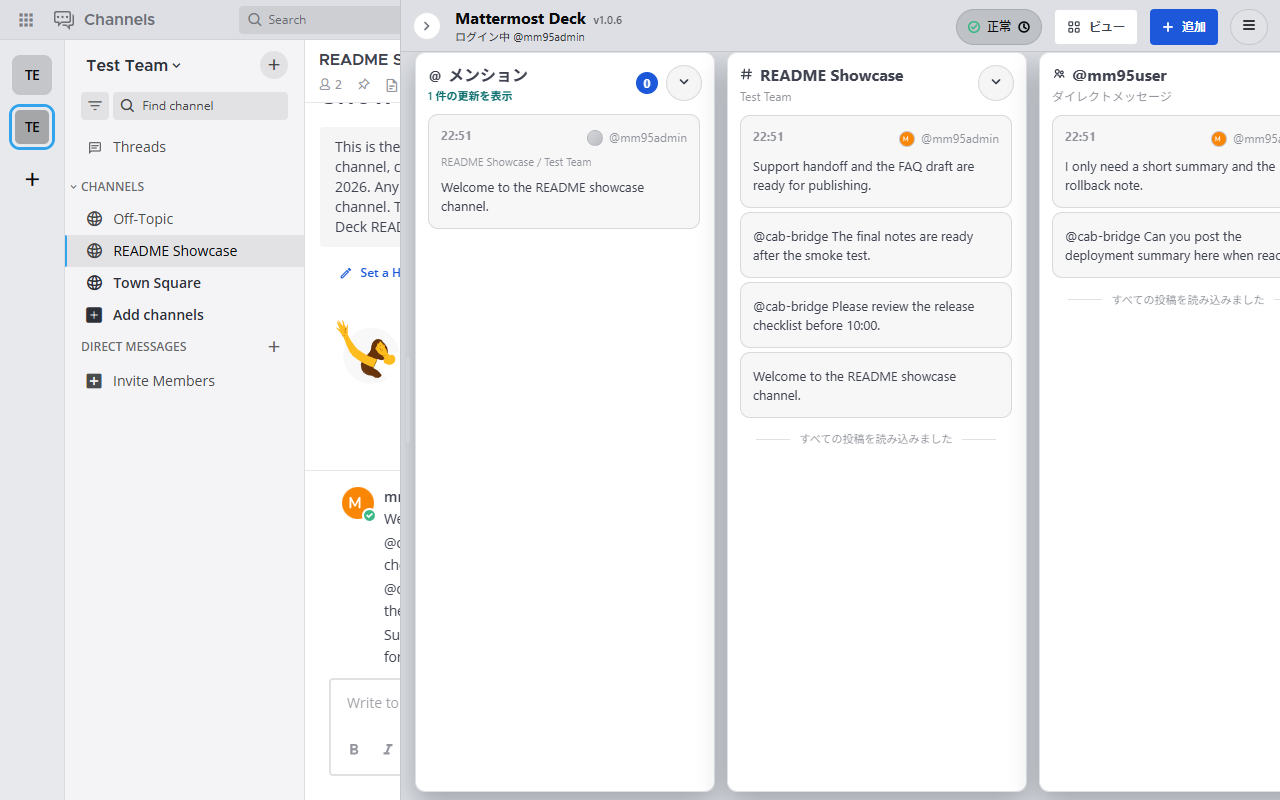
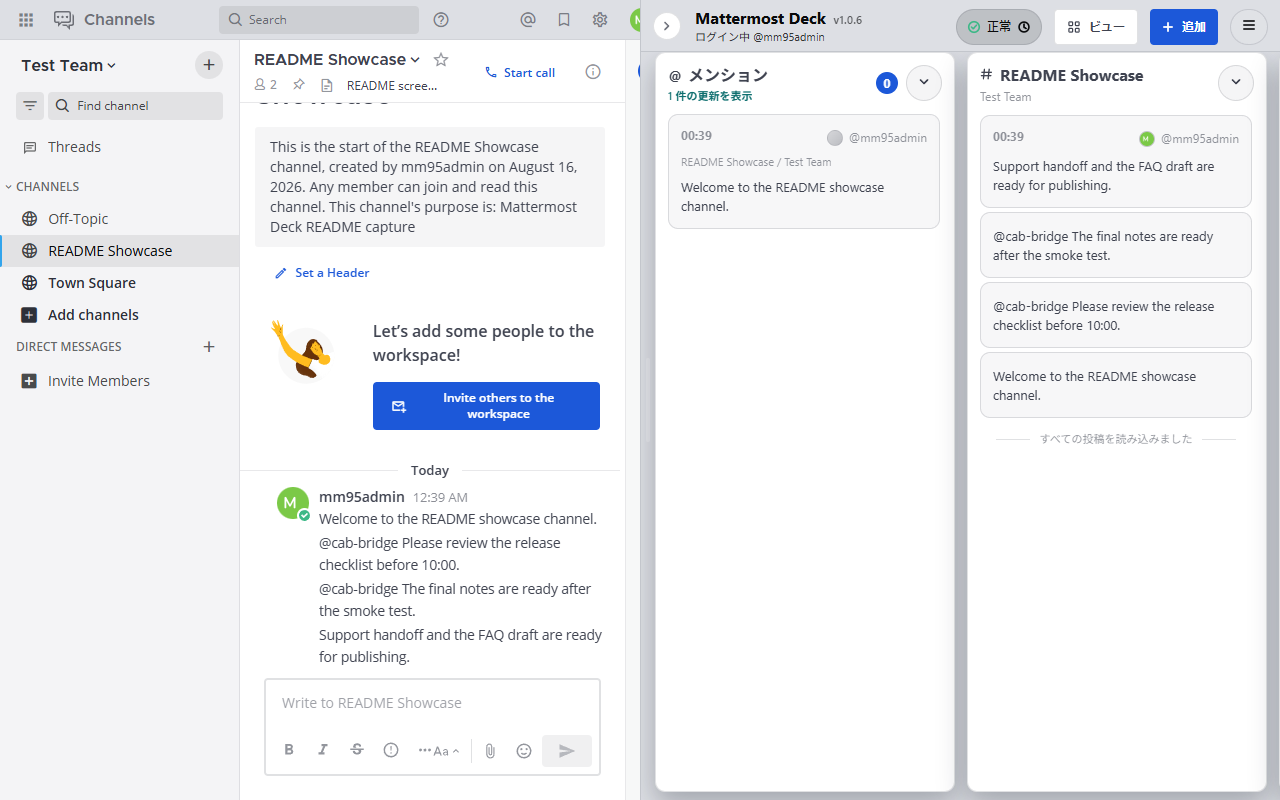
fix: 長い翻訳ラベルで Deck ヘッダーのアクションボタンが見切れる問題を修正
- .deck-topbar-actions で Views / Add 側だけが幅を譲るようにし、
  末尾のアクションボタンが常にレール内に収まるよう CSS を追加。
  従来は .deck-add-wrap が flex: none のため合計幅がヘッダーを超えると
  末尾が切れていた（620px のコンパクト閾値〜約700px の死角で発生）
- ロシア語 viewsLabel を「Представления」→「Виды」へ短縮
- ドイツ語 addLabel を「Hinzufügen」→「Neu」、
  diagnosticsStatusHealthy を「Fehlerfrei」→「OK」へ短縮
- releaseNote106HeaderOverflow を全9ロケールへ追加し、
  1.0.6 のリリースノートに Fixed 項目として掲載
- CHANGELOG 1.0.6 に Fixed 節を追加
- capture-readme のレール幅を定数化し、言語別スクショを 640px
  （ビューポートの約半分）で撮影してMattermost本体が隠れないように変更
- 9言語分のスクリーンショットを再取得
- Chrome ウェブストア申請文に ru/uk/es/ko の詳細説明を追記

diff --git a/e2e/options-profiles.spec.ts b/e2e/options-profiles.spec.ts
@@ -298,9 +298,10 @@ test("1.0.6 release notice stays aligned, wraps actions, and explains the added 
     await releaseBanner.getByRole("button", { name: "新機能" }).click();
     const releaseDialog = page.getByRole("dialog", { name: "v1.0.6" });
     await expect(releaseDialog).toBeVisible();
-    await expect(releaseDialog.locator(".options-modal-section")).toHaveCount(2);
+    await expect(releaseDialog.locator(".options-modal-section")).toHaveCount(3);
     await expect(releaseDialog).toContainText("ロシア語・ウクライナ語・スペイン語・韓国語を追加");
     await expect(releaseDialog).toContainText("CLDR の複数形");
+    await expect(releaseDialog).toContainText("アクションメニューが画面外へ押し出されて見切れる問題を修正");
   } finally {
     await context.close();
     await fs.rm(userDataDir, { recursive: true, force: true });

diff --git a/src/ui/styles.ts b/src/ui/styles.ts
@@ -176,6 +176,30 @@ export const railCssText = `
     flex: none;
   }
 
+  /*
+   * Header labels vary widely by language, so let the Views and Add buttons
+   * give up width before the trailing actions button is pushed out of the
+   * rail. The actions button stays a fixed size and must remain reachable.
+   */
+  .deck-topbar-actions .deck-add-wrap:not(.deck-actions-wrap) {
+    flex: 0 1 auto;
+    min-width: 0;
+  }
+
+  .deck-topbar-actions .deck-actions-wrap {
+    flex: none;
+  }
+
+  .deck-topbar-actions .deck-status-badge,
+  .deck-topbar-button {
+    min-width: 0;
+  }
+
+  .deck-topbar-button .deck-button-label {
+    overflow: hidden;
+    text-overflow: ellipsis;
+  }
+
   .deck-add-menu {
     position: absolute;
     top: calc(100% + 8px);

diff --git a/src/options/index.tsx b/src/options/index.tsx
@@ -2488,7 +2488,9 @@ function OptionsApp(): React.JSX.Element {
         changed: [
           t("options.releaseNote106PluralForms"),
         ],
-        fixed: [],
+        fixed: [
+          t("options.releaseNote106HeaderOverflow"),
+        ],
       } satisfies ReleaseNotes;
     }
     if (releaseNotice.version === "1.0.5") {

diff --git a/src/ui/locales.test.ts b/src/ui/locales.test.ts
@@ -137,6 +137,7 @@ describe("UI locale coverage", () => {
       "options.performanceTitle",
       "options.saveFailed",
       "options.releaseNotesOpen",
+      "options.releaseNote106HeaderOverflow",
       "options.releaseNote106Languages",
       "options.releaseNote106PluralForms",
       "options.releaseNote105PostActivation",

diff --git a/docs/chrome-web-store-submission.ja.md b/docs/chrome-web-store-submission.ja.md
@@ -13,6 +13,29 @@ Chrome Web Store の「プライバシーへの取り組み」タブで使用す
 
 Mattermost Deck は、Mattermost Web の右側に監視向けマルチペインを追加する Chrome 拡張です。メンション、チャンネル、ダイレクトメッセージ、キーワード強調付きの検索結果、保存済み投稿を並べて確認できます。ログイン、投稿、編集、チーム移動、スレッド表示などの主要操作は Mattermost 本体を使用します。
 
+## 言語別の詳細説明
+
+拡張機能名とタイトル下の簡易説明は、アップロードしたパッケージの
+`src/_locales/<locale>/messages.json` から取得されるため、コンソールへの入力は不要です。
+以下の詳細説明は言語ごとの手入力が必要で、そのロケールを含むパッケージをアップロードした後に
+Store listing タブへ貼り付けます。
+
+### ロシア語 (ru)
+
+Mattermost Deck добавляет панели для мониторинга справа от Mattermost Web. Упоминания, каналы, личные сообщения, результаты поиска с подсветкой ключевых слов и сохранённые сообщения можно расположить рядом друг с другом. Основным интерфейсом для входа, отправки и редактирования сообщений, перехода между командами и просмотра обсуждений остаётся сам Mattermost.
+
+### ウクライナ語 (uk)
+
+Mattermost Deck додає панелі для стеження праворуч від Mattermost Web. Згадування, канали, особисті повідомлення, результати пошуку з підсвічуванням ключових слів і збережені дописи можна розташувати поруч. Основним інтерфейсом для входу, надсилання та редагування дописів, переходу між командами й перегляду обговорень залишається сам Mattermost.
+
+### スペイン語 (es)
+
+Mattermost Deck añade paneles de seguimiento a la derecha de Mattermost Web. Puedes colocar en paralelo menciones, canales, mensajes directos, resultados de búsqueda con palabras clave resaltadas y publicaciones guardadas. Mattermost sigue siendo la interfaz principal para iniciar sesión, publicar, editar, cambiar de equipo y ver hilos.
+
+### 韓国語 (ko)
+
+Mattermost Deck은 Mattermost Web 오른쪽에 모니터링용 패널을 추가합니다. 멘션, 채널, 다이렉트 메시지, 키워드가 강조된 검색 결과, 저장한 게시물을 나란히 배치할 수 있습니다. 로그인, 게시, 편집, 팀 이동, 스레드 보기 등 주요 작업은 계속 Mattermost 본체에서 이루어집니다.
+
 ## v1.0.6 リリースノート
 
 - Deck、設定画面、ポップアップ、インストール案内、拡張機能パッケージの説明文にロシア語・ウクライナ語・スペイン語・韓国語を追加

diff --git a/docs/chrome-web-store-submission.md b/docs/chrome-web-store-submission.md
@@ -16,6 +16,29 @@ Mattermost Deck adds a multi-pane viewing and search workspace to Mattermost Web
 
 Mattermost Deck adds monitoring-oriented panes to the right side of Mattermost Web. Users can arrange mentions, channels, direct messages, search results with keyword highlighting, and saved posts side by side. Mattermost remains the primary interface for login, posting, editing, team navigation, and thread views.
 
+## Localized detailed descriptions
+
+The extension name and the short description shown under the title come from
+`src/_locales/<locale>/messages.json` in the uploaded package, so they need no console entry.
+The detailed description below is per-language and must be pasted into the Store listing tab
+after a package containing that locale has been uploaded.
+
+### Russian (ru)
+
+Mattermost Deck добавляет панели для мониторинга справа от Mattermost Web. Упоминания, каналы, личные сообщения, результаты поиска с подсветкой ключевых слов и сохранённые сообщения можно расположить рядом друг с другом. Основным интерфейсом для входа, отправки и редактирования сообщений, перехода между командами и просмотра обсуждений остаётся сам Mattermost.
+
+### Ukrainian (uk)
+
+Mattermost Deck додає панелі для стеження праворуч від Mattermost Web. Згадування, канали, особисті повідомлення, результати пошуку з підсвічуванням ключових слів і збережені дописи можна розташувати поруч. Основним інтерфейсом для входу, надсилання та редагування дописів, переходу між командами й перегляду обговорень залишається сам Mattermost.
+
+### Spanish (es)
+
+Mattermost Deck añade paneles de seguimiento a la derecha de Mattermost Web. Puedes colocar en paralelo menciones, canales, mensajes directos, resultados de búsqueda con palabras clave resaltadas y publicaciones guardadas. Mattermost sigue siendo la interfaz principal para iniciar sesión, publicar, editar, cambiar de equipo y ver hilos.
+
+### Korean (ko)
+
+Mattermost Deck은 Mattermost Web 오른쪽에 모니터링용 패널을 추가합니다. 멘션, 채널, 다이렉트 메시지, 키워드가 강조된 검색 결과, 저장한 게시물을 나란히 배치할 수 있습니다. 로그인, 게시, 편집, 팀 이동, 스레드 보기 등 주요 작업은 계속 Mattermost 본체에서 이루어집니다.
+
 ## v1.0.6 release notes
 
 - Adds Russian, Ukrainian, Spanish, and Korean to Deck, Settings, the popup, the install guide, and the extension package description

diff --git a/CHANGELOG.md b/CHANGELOG.md
@@ -18,6 +18,11 @@ and this version adheres to [Semantic Versioning](https://semver.org/spec/v2.0.0
 - Derived the supported-language list, the Settings language picker, and the store build's `_locales` gate from a single `SUPPORTED_LANGUAGES` definition in `src/ui/language.ts`.
 - Made the store release-candidate smoke test compare the permission-denial message against the locale the options page actually rendered, instead of assuming a Japanese host browser.
 - Locale parity tests now compare plural keys by base key and require exactly the CLDR plural categories each language declares, so four-form languages such as Russian and Ukrainian can no longer fall back to English. French gained its missing `many` forms, and the unused `one` forms were dropped from Japanese and Simplified Chinese.
+- Shortened the German and Russian header labels so the Deck top bar keeps its title, sign-in line, and actions on one row at narrow rail widths.
+
+### Fixed
+
+- Keep the Deck header's actions button inside the rail when long translated labels do not fit. The Views and Add labels now give up width first instead of pushing the actions button past the rail edge, which previously clipped it between the 620 px compact breakpoint and roughly 700 px.
 
 ## [1.0.5] - 2026-08-12
 
